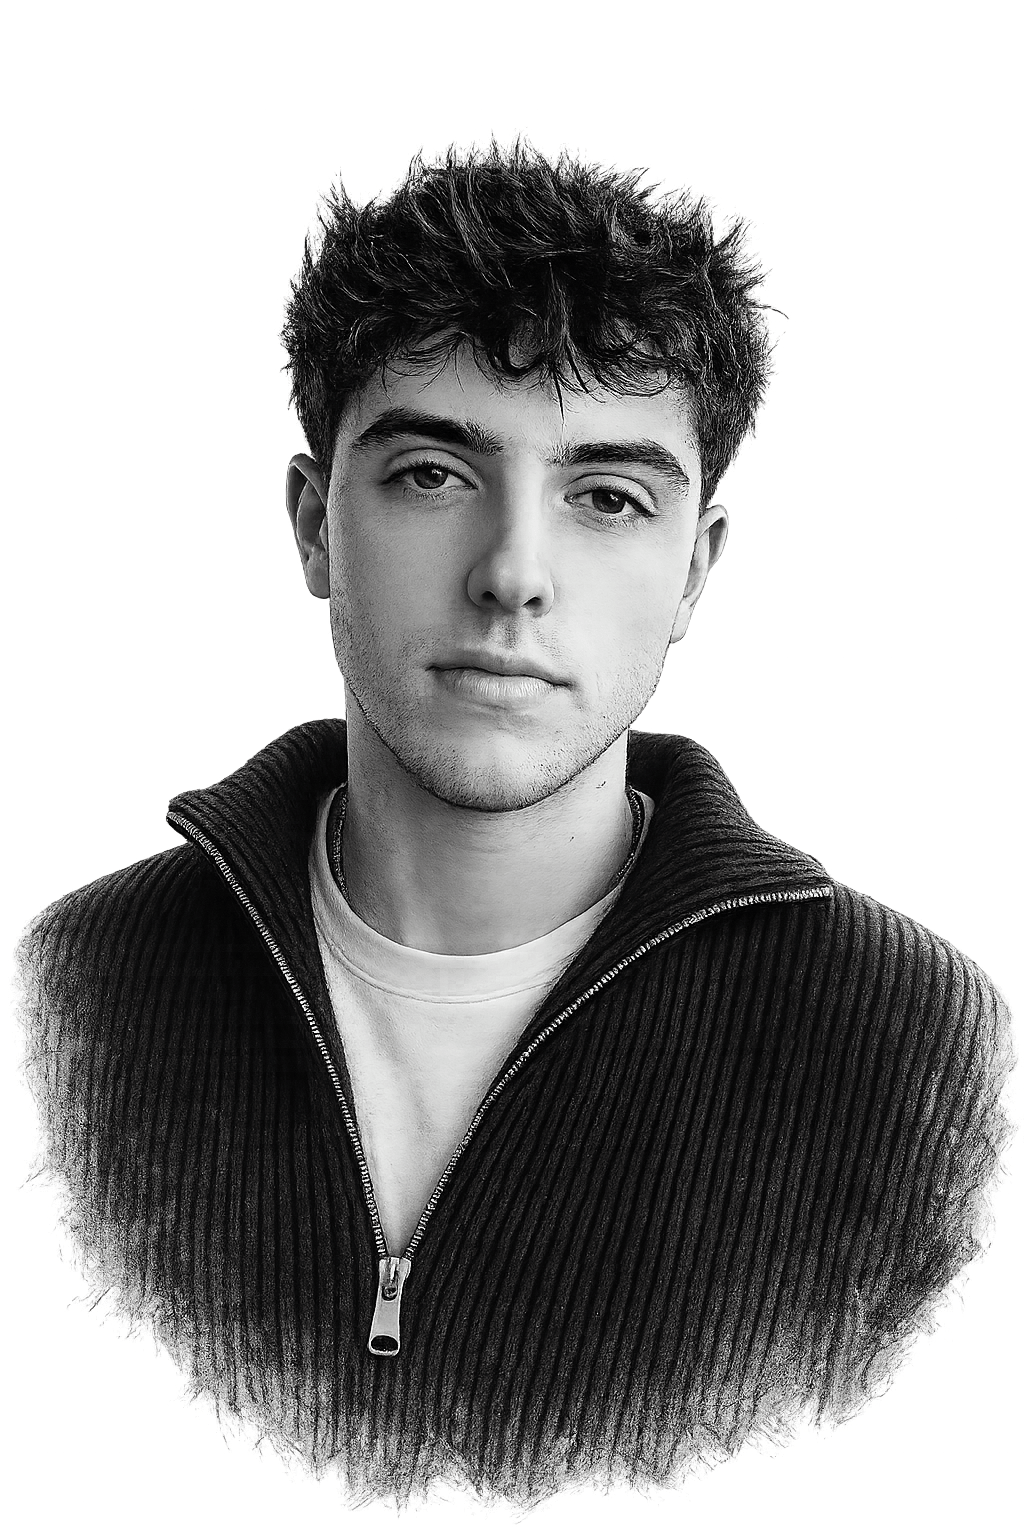
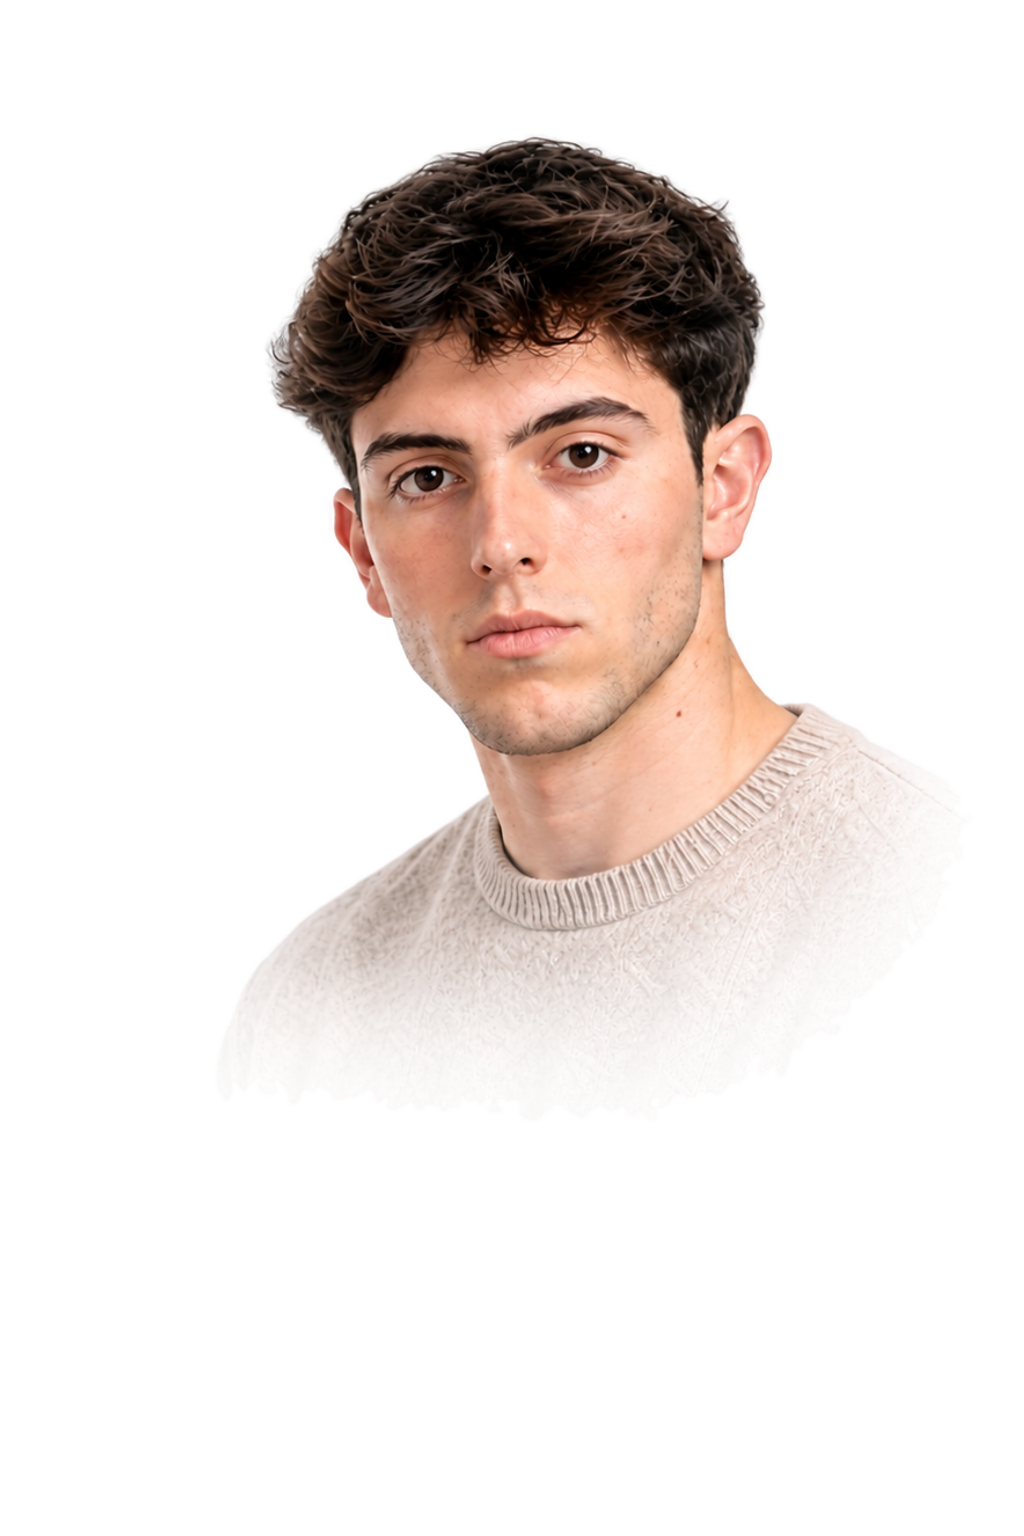
Swap the hero portrait, in colour, and lift the hero block (#43)
New photo in, matched to the old one by measurement rather than by eye.
The reference was the shipping portrait's head: width 475, centre x 527,
crown y 132 on a 1024x1536 canvas. The new frame was keyed, scaled and
placed to land on those numbers, iterating three passes because the
6-16% measuring band is a share of frame height and the two frames
differ. Final: head 475, centre 529, crown 132. The rendered box is
identical to before at every width, 850x1274 at 1090,86 on a 1920.

Keying took two goes. The backdrop runs 252-255 with a channel spread of
0-1; the cream sweater's highlights reach a min-channel of 249 but carry
a spread around 5. Brightness alone cannot separate them, and a gate of
min>236 ate the whole lower sweater, so the gate is on the SPREAD.

Colour, not black and white, on Gjorgi's call. The old portrait was
effectively mono at 0.90 mean chroma, so DESIGN.md's imagery rule is
updated to name the hero as the one exception rather than leave a line
in it that the site contradicts.

No fabricated garment below him. A first pass smeared the last solid row
down and blurred it so the cut-out would bleed off the bottom, and it
read as exactly what it was, a blurred slab. The source already fades
the sweater out to white and the page ground IS white, so the real fade
dissolves into the page on its own.

Hero content is centred instead of bottom-anchored. At flex-end all the
slack in a 100svh column collected above the greeting: 400px of dead
[…]

diff --git a/app/globals.css b/app/globals.css
@@ -410,7 +410,11 @@ video {
   min-height: 100svh;
   display: flex;
   flex-direction: column;
-  justify-content: flex-end;
+  /* Centred, not bottom-anchored. At flex-end all the slack in a 100svh column
+     collected above the greeting, which left a dead ~300px band between the nav
+     and the first line. Centring splits that slack so the block sits closer to
+     the header without crowding it. */
+  justify-content: center;
   padding: clamp(7rem, 16vh, 10rem) var(--pad-x) clamp(3rem, 7vh, 5rem);
   /* Clip the portrait's sideways bleed so it can never push out a horizontal
      scrollbar. clip (not hidden) keeps overflow-y visible for the bottom bleed

diff --git a/DESIGN.md b/DESIGN.md
@@ -13,7 +13,8 @@ match the hero (`app/components/Hero.tsx` + the `.hero` block in `app/globals.cs
 - Ink `--text #0e0e0f`, dim `--text-dim #56565a`, hairlines `--line` / `--line-strong`
 - Accent `--accent #ff5a1e` (sunset orange), used ONLY as a tiny mark. Never large
   fills, never on big type.
-- Imagery is black and white only.
+- Imagery is black and white, with one exception: the hero portrait runs in
+  colour (Gjorgi's call, 2026-09-01). Everything else stays mono.
 
 ## Typography
 - ONE family: Bricolage Grotesque (variable). `--font-display` and `--font-body`
@@ -47,7 +48,7 @@ match the hero (`app/components/Hero.tsx` + the `.hero` block in `app/globals.cs
 ## Signature devices
 - `mix-blend-mode: difference` for type / logo that crosses B&W imagery: it
   auto-inverts (dark on light, light on dark).
-- Transparent B&W cut-outs that dissolve off the edge (image fade + mask).
+- Transparent cut-outs that dissolve off the edge (image fade + mask).
 - Minimal fixed nav: text `gk` logo (blend) + one CTA. `.nav` is `display: contents`
   so the logo blends against the page behind it.
 
